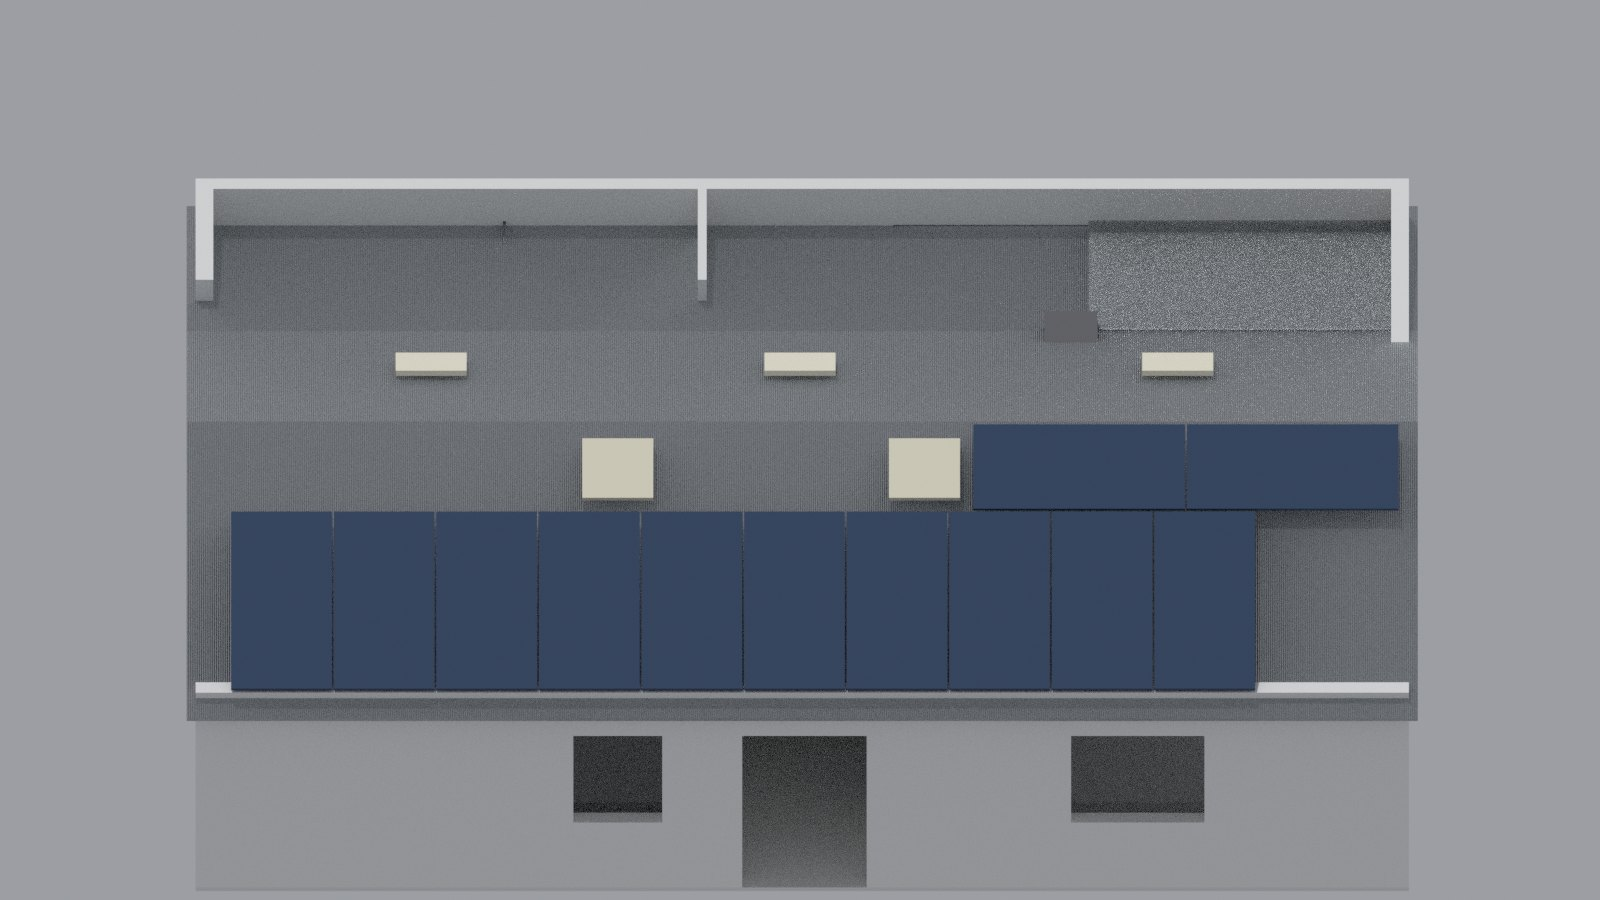
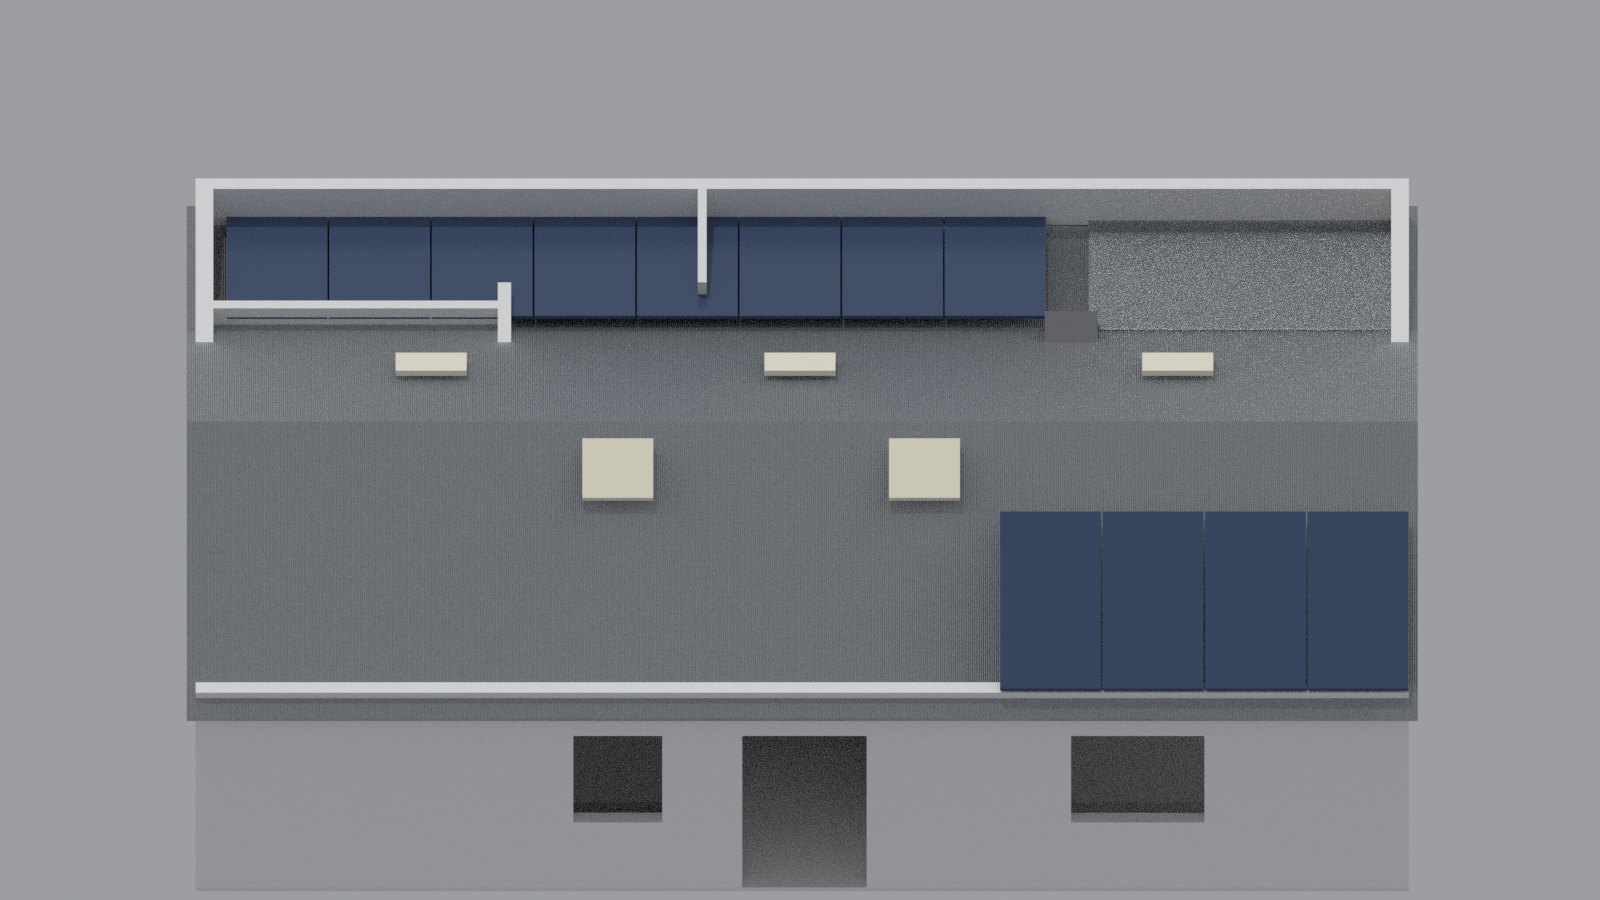
House page: solar mostly on the back roof (8 back, 4 front), Rob 1 Oct
Claude-Session: https://claude.ai/code/session_01Da7DVLUS4eTKAPdJEftquQ

Changed region(s): [[0.125, 0.4667, 0.9062, 0.7778], [0.125, 0.2178, 0.6562, 0.4044]]

diff --git a/house/index.html b/house/index.html
@@ -146,7 +146,7 @@ ul.plain{padding-left:20px;margin:0 0 16px} ul.plain li{margin-bottom:6px;max-wi
   <p>There are in effect two roofs. The main roof is gabled, with a single ridge running the width of the house. The house faces the sea to the east, so one slope faces east and the other west. A separate, lower roof covers the kitchen and bathroom at the back; part of it, over the kitchen, is opal polycarbonate, which lets daylight through.</p>
   <ul class="plain">
     <li>Five skylights: one each in Bedrooms A, B and C, the studio and the open-plan room.</li>
-    <li>Twelve solar panels on the main roof's front slope, which faces east: ten in a row along the eave and two above them, clear of the skylights.</li>
+    <li>Twelve solar panels, mostly out of sight: eight on the back roof, which is nearly flat and catches almost as much sun as an ideal roof in Grenada, and four on the front slope at the studio end, clear of the skylights. The opal section over the kitchen stays clear.</li>
   </ul>
   <figure><img src="media/roof-map.png" alt="Roof map" loading="lazy"><figcaption>The roof map: skylights, solar panels and the opal section.</figcaption></figure>
   <figure><img src="media/roof-3d.jpg" alt="3D view of the roof" loading="lazy"><figcaption>The roof in the 3D model.</figcaption></figure>
